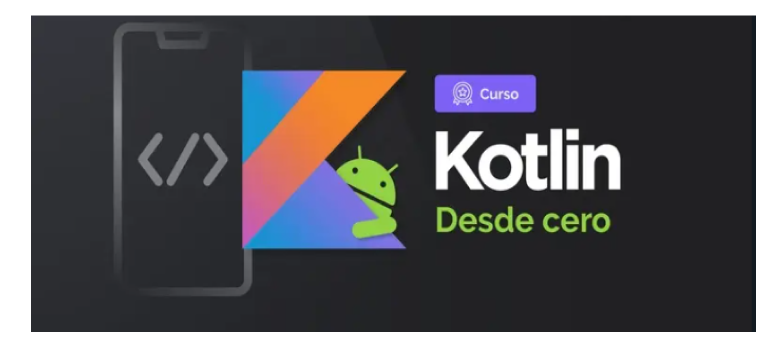
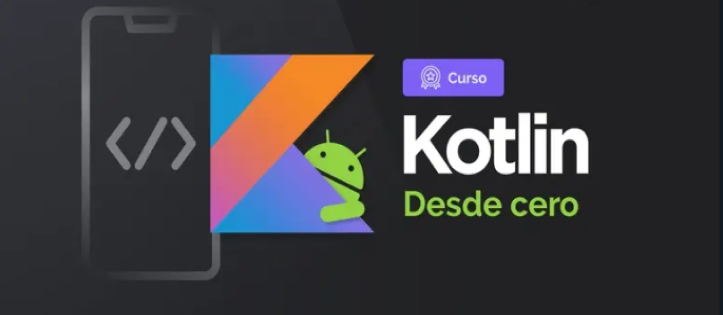
carusel terminado

diff --git a/Busqueda.html b/Busqueda.html
@@ -146,7 +146,7 @@
                     <div class="carousel_elemento">
                         <div class="curso">
                             <div class="curso_titulo">Kotlin desde cero</div>
-                            <img src="">
+                            <img src="images/FotoCurso.png">
                             <div class="curso_autor">
                                 <svg width="44" height="45" viewBox="0 0 44 45" fill="none" xmlns="http://www.w3.org/2000/svg">
                                     <path d="M21.8077 11.25C20.4598 11.25 19.1423 11.6624 18.0215 12.435C16.9008 13.2076 16.0274 14.3057 15.5116 15.5905C14.9958 16.8753 14.8608 18.289 15.1237 19.653C15.3867 21.0169 16.0358 22.2698 16.9888 23.2531C17.9419 24.2364 19.1562 24.9061 20.4782 25.1774C21.8001 25.4487 23.1704 25.3095 24.4157 24.7773C25.6609 24.2451 26.7253 23.3439 27.4741 22.1876C28.2229 21.0313 28.6226 19.6719 28.6226 18.2812C28.6226 16.4164 27.9046 14.628 26.6266 13.3094C25.3485 11.9908 23.6151 11.25 21.8077 11.25Z" fill="white"/>
@@ -154,7 +154,7 @@
                                 </svg>     
                                 Pepe Fernandez                               
                             </div>
-                            <div class="curso_descricion">Kotlin desde cero</div>
+                            <div class="curso_descricion">Aprende Kotlin desde 0 con este curso paso a paso</div>
                             <div class="curso_propiedades">
                                 <div>
                                     <svg width="29" height="30" viewBox="0 0 29 30" fill="none" xmlns="http://www.w3.org/2000/svg">

diff --git a/CSS/Busqueda.css b/CSS/Busqueda.css
@@ -178,7 +178,7 @@ body {
 /*Cursos*/
 .curso {
     width: 382px;
-    height: 559px;
+    padding-bottom: 5%;
     position: relative;
     z-index: 0;
     text-align: center;
@@ -191,4 +191,71 @@ body {
     font-size: 30px;
     padding: 25px 0;
     color: #1192EE;
+}
+
+.curso img {
+    width: 90%;
+    border-radius: 20px;
+}
+
+.curso_autor {
+    display: flex;
+    align-items: center;
+    padding: 0px 25px;
+    margin-top: 5px;
+    font-size: 21px;
+    color: white;
+}
+
+.curso_autor svg {
+    padding-right: 10px;
+}
+
+.curso_descricion {
+    color: white;
+    font-size: 20px;
+    padding: 10px 25px;
+}
+
+.curso_propiedades {
+    display: flex;
+    justify-content: center;
+    align-items: center;
+}
+
+.curso_propiedades div{
+    width: 98.54px;
+    height: 98px;
+    background: #323537;
+    border-radius: 21px;
+    margin: 8px;
+
+    display: flex;
+    flex-direction: column;
+    align-items: center;
+    justify-content: center;
+}
+
+@media (max-width: 900px){
+    .curso {
+        width: 90%;
+        font-size: 18px; 
+    }
+
+    .curso_autor {
+        font-size: 18px; 
+    }
+    
+    .curso_descricion {
+        font-size: 18px; 
+    }
+    
+    .curso_propiedades div{
+        font-size: 18px;  
+    }
+
+    .curso_propiedades div{
+        width: 70px;
+        height: 70px;
+    }
 }

diff --git a/Header_Footer.js b/Header_Footer.js
@@ -60,7 +60,7 @@ window.addEventListener("load",function() {
               }
             },{
               // screens greater than >= 1024px
-              breakpoint: 1024,
+              breakpoint: 1230,
               settings: {
                 slidesToShow: 3,
                 slidesToScroll: 1,
@@ -93,7 +93,7 @@ window.addEventListener("load",function() {
               }
             },{
               // screens greater than >= 1024px
-              breakpoint: 1024,
+              breakpoint: 1230,
               settings: {
                 slidesToShow: 3,
                 slidesToScroll: 1,
@@ -126,7 +126,7 @@ window.addEventListener("load",function() {
               }
             },{
               // screens greater than >= 1024px
-              breakpoint: 1024,
+              breakpoint: 1230,
               settings: {
                 slidesToShow: 3,
                 slidesToScroll: 1,
@@ -159,7 +159,7 @@ window.addEventListener("load",function() {
               }
             },{
               // screens greater than >= 1024px
-              breakpoint: 1024,
+              breakpoint: 1230,
               settings: {
                 slidesToShow: 3,
                 slidesToScroll: 1,
